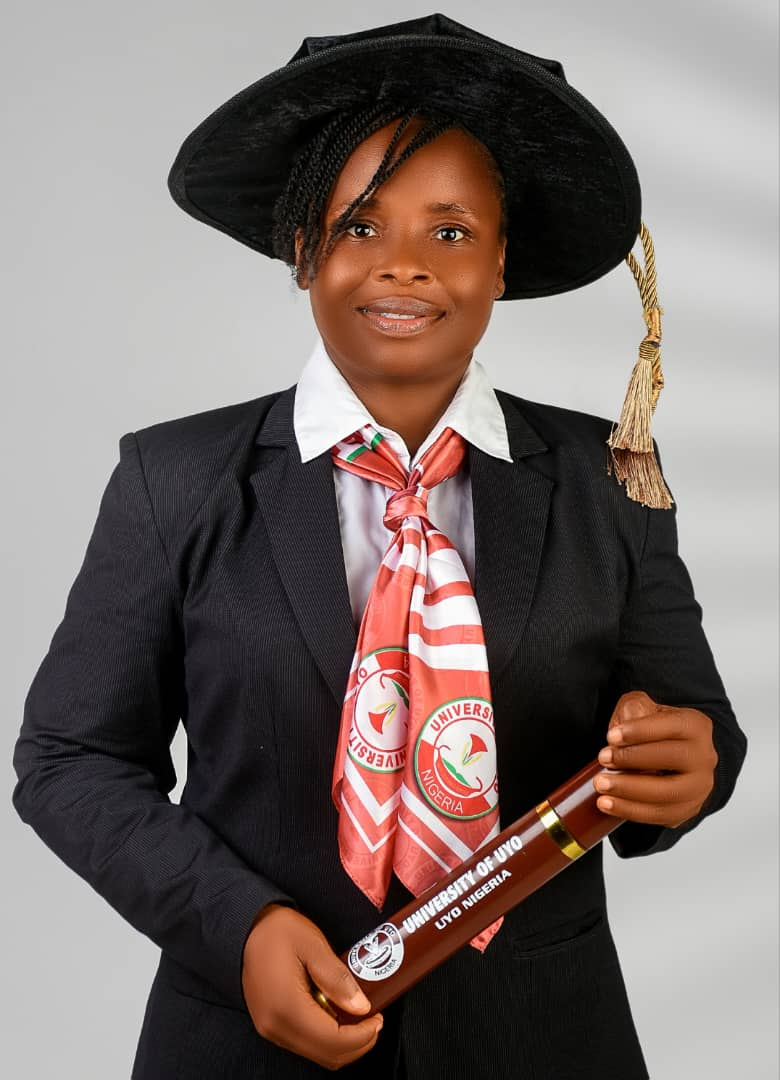
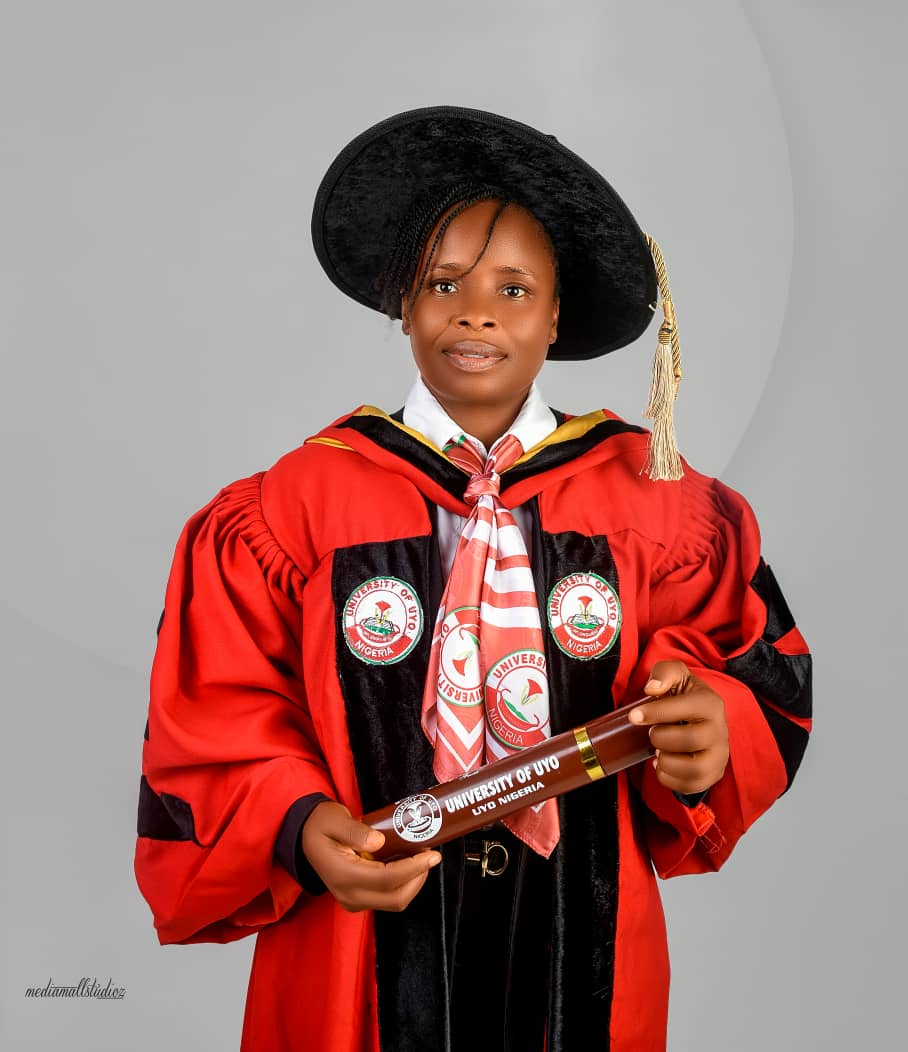
Updated Team Section

diff --git a/index.html b/index.html
@@ -224,7 +224,7 @@
         <div class="container py-5">
             <div class="text-center mb-5">
                 <h5 class="text-primary text-uppercase mb-3" style="letter-spacing: 5px;">Courses</h5>
-                <h1>Our Popular Courses</h1>
+                <h1>Our Courses</h1>
             </div>
             <div class="row">
                 <div class="col-lg-4 col-md-6 mb-4">
@@ -412,7 +412,7 @@
                 <div class="col-md-6 col-lg-3 text-center team mb-4">
                     <div class="team-item rounded overflow-hidden mb-2">
                         <div class="team-img position-relative">
-                            <img class="img-fluid" src="img/team-2.jpg" alt="">
+                            <img class="img-fluid" src="img/team-2.png" alt="">
                             <div class="team-social">
                                 <a class="btn btn-outline-light btn-square mx-1" href="#"><i class="fab fa-twitter"></i></a>
                                 <a class="btn btn-outline-light btn-square mx-1" href="#"><i class="fab fa-facebook-f"></i></a>
@@ -420,15 +420,15 @@
                             </div>
                         </div>
                         <div class="bg-secondary p-4">
-                            <h5>Jhon Doe</h5>
-                            <p class="m-0">Web Designer</p>
+                            <h5>Mr Emmanuel</h5>
+                            <p class="m-0">Coding and Computer Programming</p>
                         </div>
                     </div>
                 </div>
                 <div class="col-md-6 col-lg-3 text-center team mb-4">
                     <div class="team-item rounded overflow-hidden mb-2">
                         <div class="team-img position-relative">
-                            <img class="img-fluid" src="img/team-3.jpg" alt="">
+                            <img class="img-fluid" src="img/team-3.png" alt="">
                             <div class="team-social">
                                 <a class="btn btn-outline-light btn-square mx-1" href="#"><i class="fab fa-twitter"></i></a>
                                 <a class="btn btn-outline-light btn-square mx-1" href="#"><i class="fab fa-facebook-f"></i></a>
@@ -436,15 +436,15 @@
                             </div>
                         </div>
                         <div class="bg-secondary p-4">
-                            <h5>Jhon Doe</h5>
-                            <p class="m-0">Web Designer</p>
+                            <h5>Mrs Namso</h5>
+                            <p class="m-0">Computer Appreciation and Application</p>
                         </div>
                     </div>
                 </div>
                 <div class="col-md-6 col-lg-3 text-center team mb-4">
                     <div class="team-item rounded overflow-hidden mb-2">
                         <div class="team-img position-relative">
-                            <img class="img-fluid" src="img/team-4.jpg" alt="">
+                            <img class="img-fluid" src="img/team-4.png" alt="">
                             <div class="team-social">
                                 <a class="btn btn-outline-light btn-square mx-1" href="#"><i class="fab fa-twitter"></i></a>
                                 <a class="btn btn-outline-light btn-square mx-1" href="#"><i class="fab fa-facebook-f"></i></a>
@@ -452,8 +452,8 @@
                             </div>
                         </div>
                         <div class="bg-secondary p-4">
-                            <h5>Jhon Doe</h5>
-                            <p class="m-0">Web Designer</p>
+                            <h5>Mr Efeeloo Akinah</h5>
+                            <p class="m-0">Entrepreneurship and Management</p>
                         </div>
                     </div>
                 </div>
